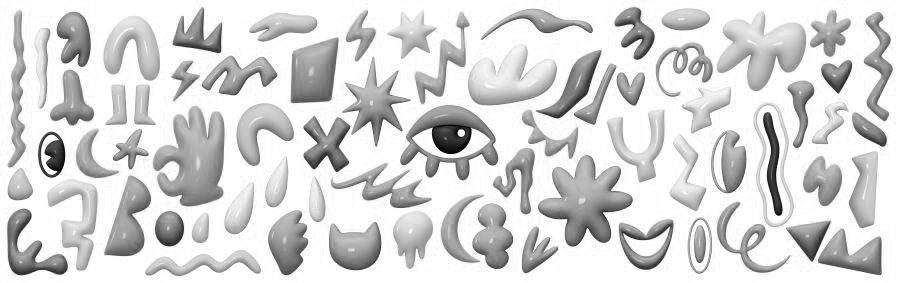
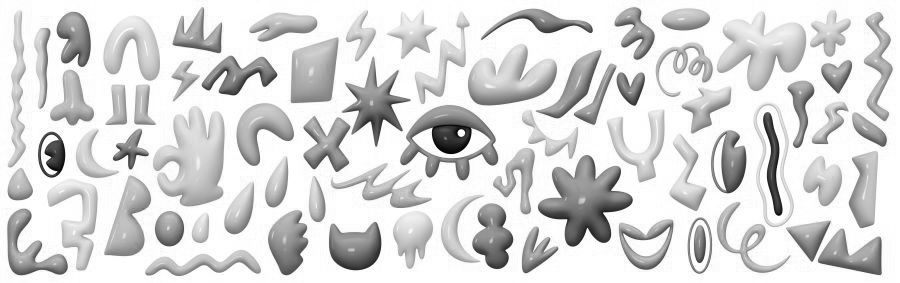
update 02_04_Modifier_la_transparence_d_une_image.py

diff --git a/Exercices/Ch02/02_04_Modifier_la_transparence_d_une_image/02_04_Modifier_la_transparence_d_une_image.py b/Exercices/Ch02/02_04_Modifier_la_transparence_d_une_image/02_04_Modifier_la_transparence_d_une_image.py
@@ -1,20 +1,41 @@
 import numpy as np
 import cv2
 
-color = cv2.imread("..\\..\\Data\\image_05.jpg",1)
+color = cv2.imread("../../Data/image_05.jpg",1)
 
-gray = cv2.cvtColor(color, cv2.COLOR_RGB2GRAY)
+gray = cv2.cvtColor(color, cv2.COLOR_BGR2GRAY)
 cv2.imwrite("gray.jpg",gray)
+cv2.imshow("Gray",gray)
 
- 
+# gris = cv2.cvtColor(color, cv2.COLOR_RGB2GRAY)
+# cv2.imshow("Gris",gris)
+
+# isEqual = np.array_equal(gray,gris)
+# print(f"Les images gray et gris sont égales : {isEqual}")
+
+
 b = color[:,:,0]
 g = color[:,:,1]
 r = color[:,:,2]
 
-rgba_b = cv2.merge((b,g,r,b))
-rgba_g = cv2.merge((b,g,r,g) )
-rgba_r = cv2.merge((b,g,r,r))
+# blue,green,red = cv2.split(color)
+
+# print(f"is b equal to blue : {np.array_equal(b,blue)}")
+# print(f"is g equal to green : {np.array_equal(g,green)}")
+# print(f"is r equal to red : {np.array_equal(r,red)}")
+
+
+bgra_b = cv2.merge((b,g,r,b))
+bgra_g = cv2.merge((b,g,r,g))
+bgra_r = cv2.merge((b,g,r,r))
  
-cv2.imwrite("rgba_b.png",rgba_b)
-cv2.imwrite("rgba_g.png",rgba_g)
-cv2.imwrite("rgba_r.png",rgba_r)
+cv2.imwrite("rgba_b.png",bgra_b)
+cv2.imshow("BGRA - B",bgra_b)
+cv2.imwrite("rgba_g.png",bgra_g)
+cv2.imshow("BGRA - G",bgra_g)
+cv2.imwrite("rgba_r.png",bgra_r)
+cv2.imshow("BGRA - R",bgra_r)
+
+
+cv2.waitKey(0)
+cv2.destroyAllWindows()
